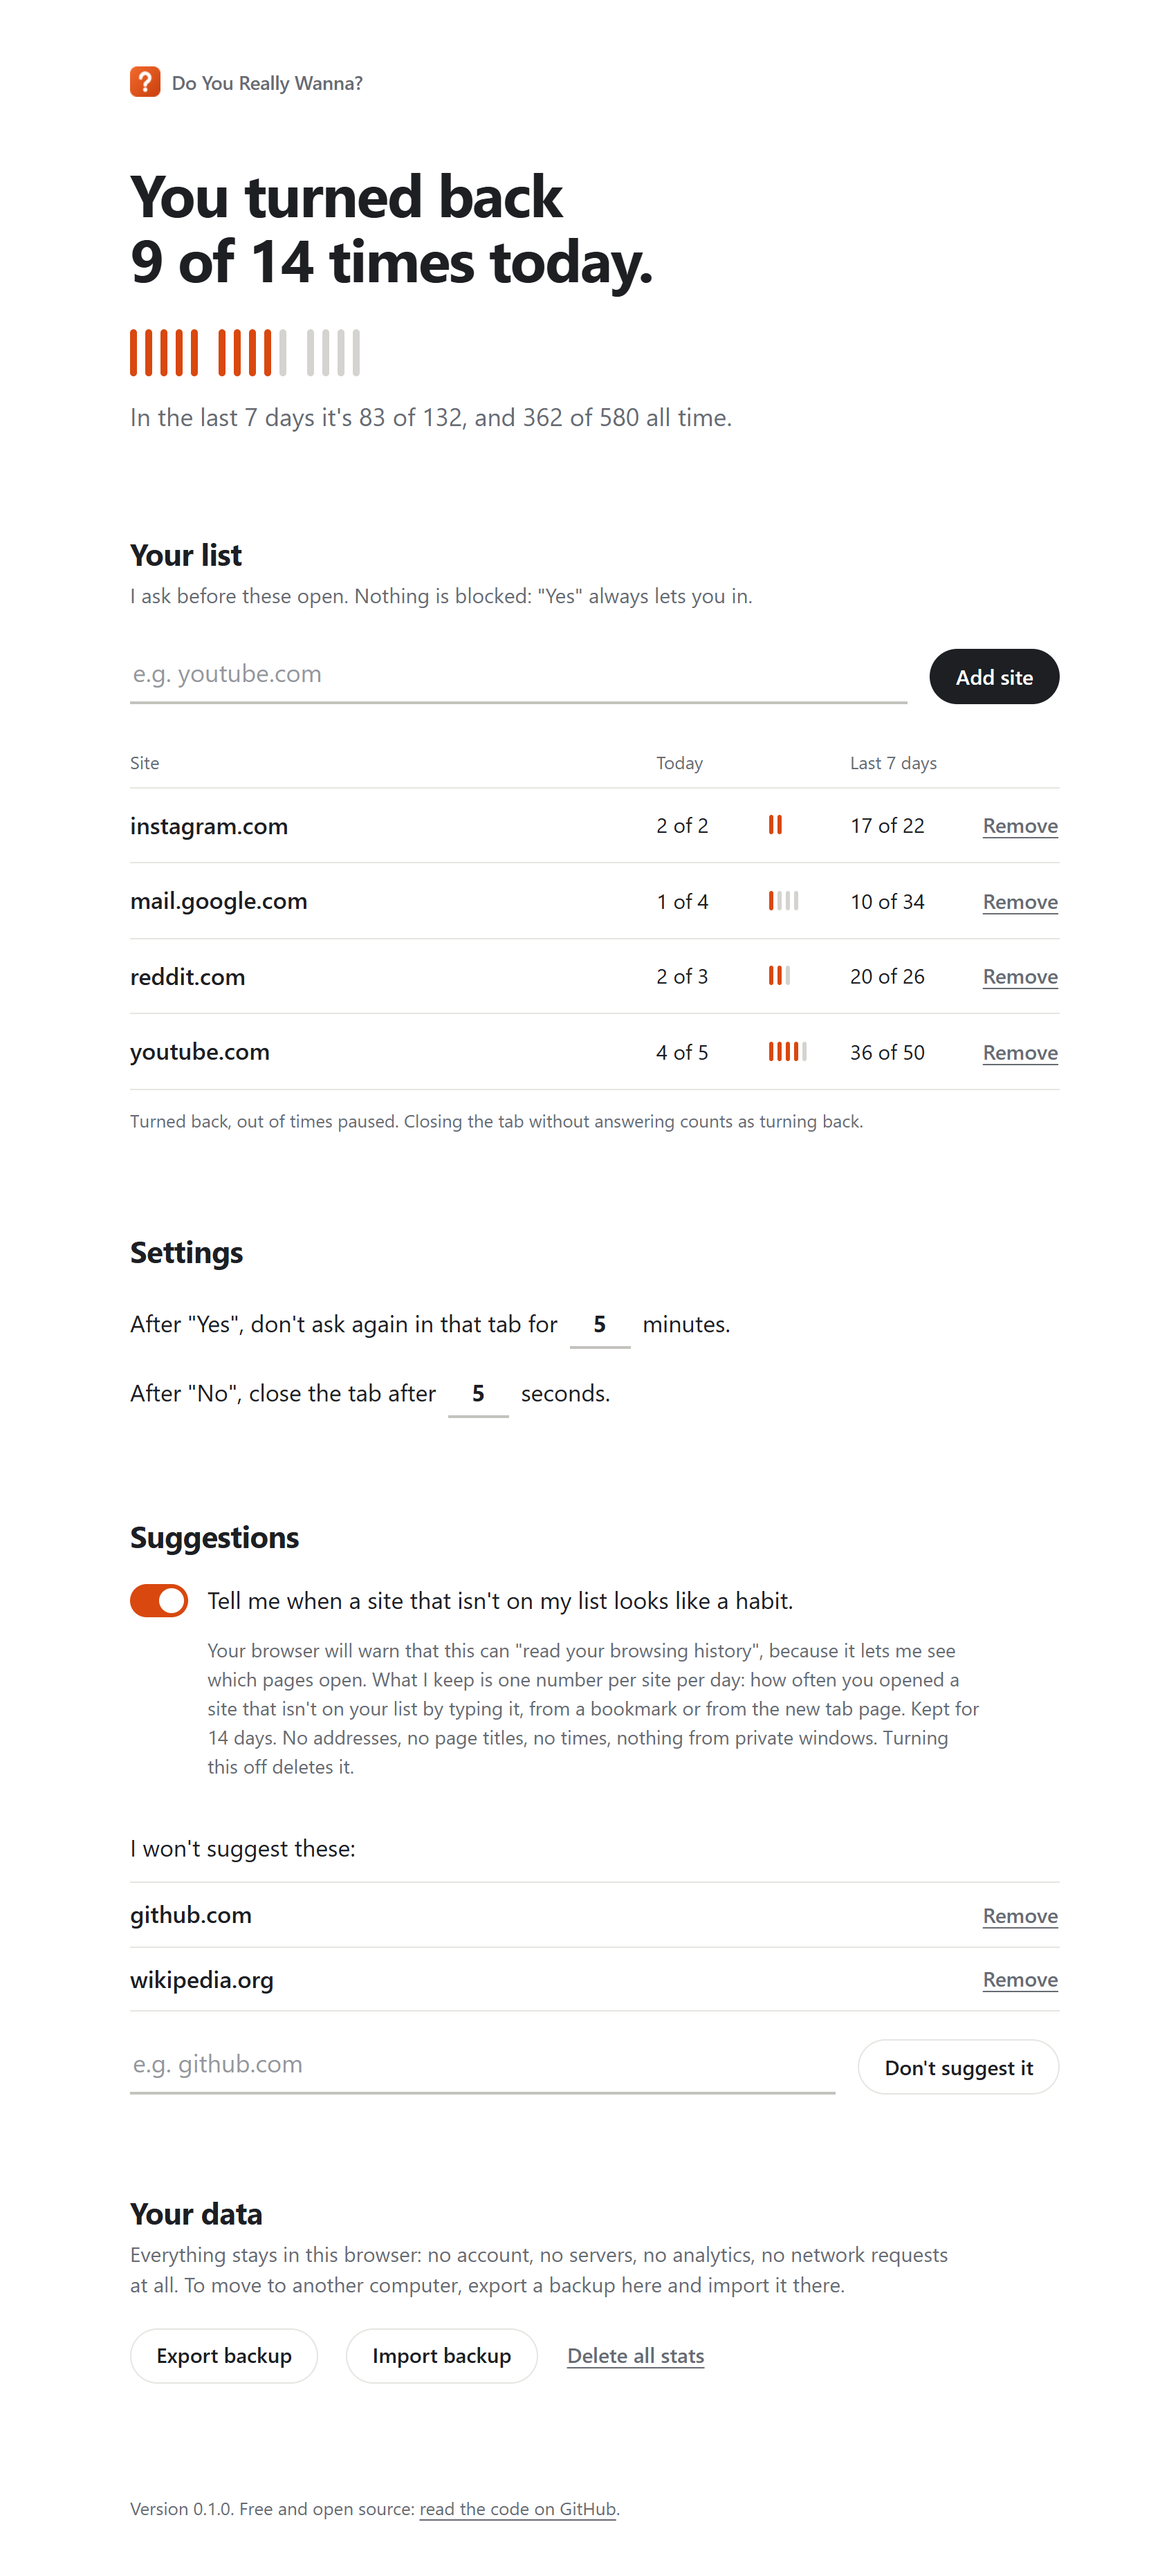
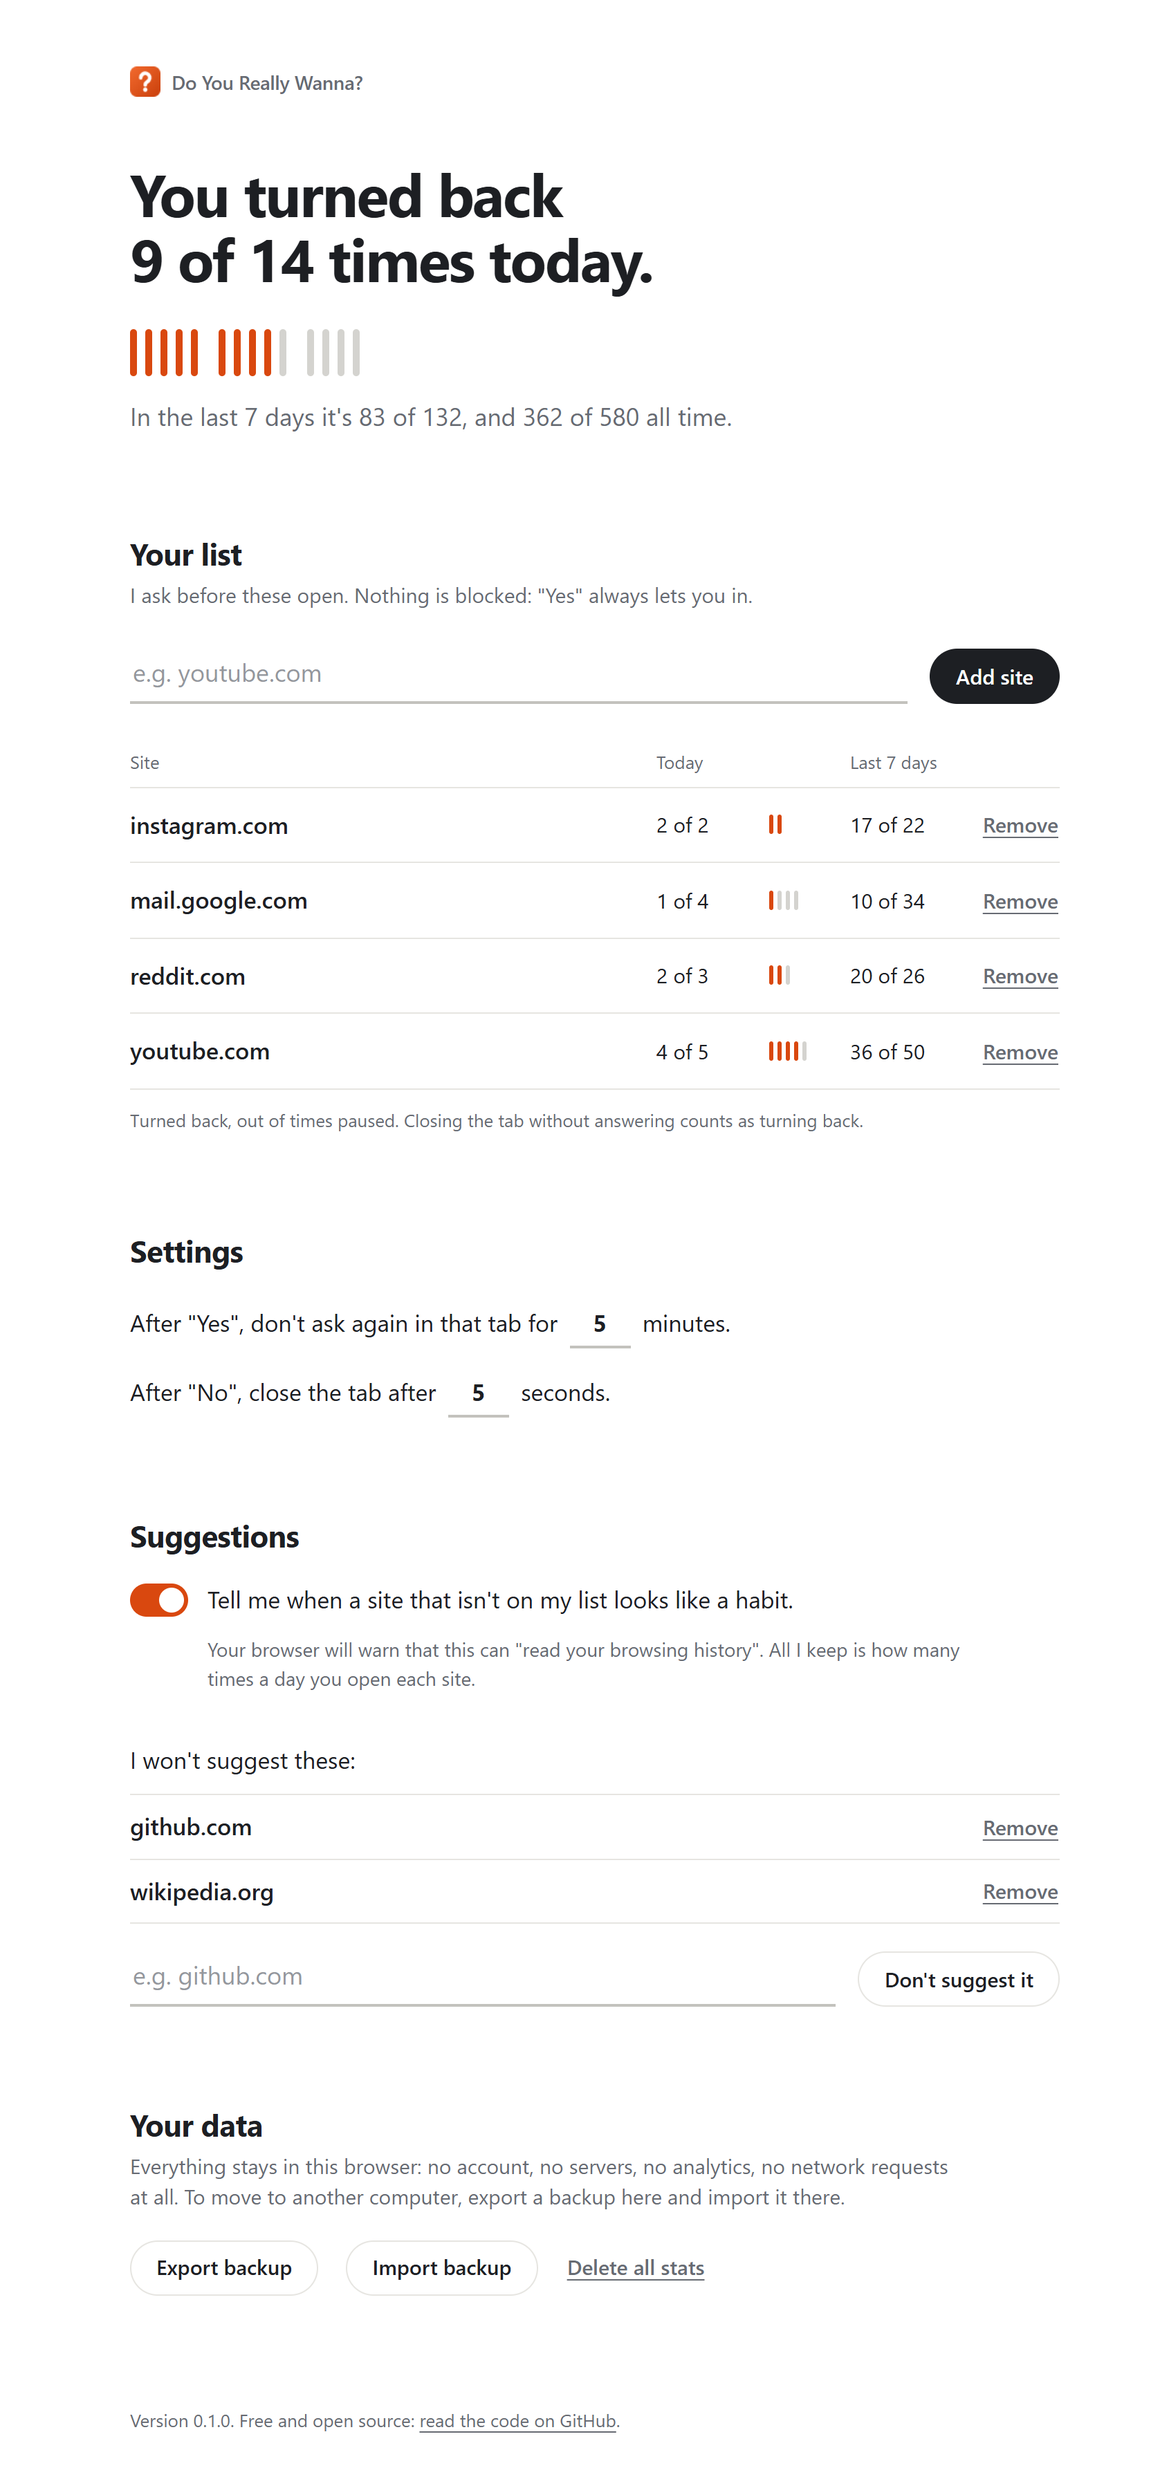
fix: shorter suggestions note, keep only 7 days of counts
The note next to the switch is down to two sentences: the browser's
"browsing history" warning, and that only a per-site daily count is kept.

Counts are kept for 7 days instead of 14: the threshold only ever reads
the last 7, so the extra week was data with no use. D-020 amended before
release. Edge hand-tests ticked in the roadmap.

diff --git a/extension/lib/copy.js b/extension/lib/copy.js
@@ -2,7 +2,7 @@
 // who scolds. Every prompt must be answerable with the two buttons
 // ("No, not now" / "Yes, open it").
 
-import { BUSY_DAYS, KEEP_DAYS, OPENS_PER_DAY, WINDOW_DAYS } from './suggest.js';
+import { BUSY_DAYS, OPENS_PER_DAY, WINDOW_DAYS } from './suggest.js';
 
 export const PROMPTS = [
   'Do you really wanna open {site} right now?',
@@ -38,13 +38,6 @@ export const SUGGESTION = Object.freeze({
   noAccess: "I can't pause {site} without access, so I didn't add it.",
   nothing: 'Nothing to suggest here.',
 });
-
-/** Next to the switch on "Your list & stats": the browser's warning, and what's actually kept. */
-export const SUGGESTIONS_NOTE =
-  'Your browser will warn that this can "read your browsing history", because it lets me see which pages open. ' +
-  'What I keep is one number per site per day: how often you opened a site that isn\'t on your list by typing it, ' +
-  `from a bookmark or from the new tab page. Kept for ${KEEP_DAYS} days. No addresses, no page titles, no times, ` +
-  'nothing from private windows. Turning this off deletes it.';
 
 export const SUGGESTIONS_DENIED = "Without that permission I can't notice anything, so suggestions stay off.";
 

diff --git a/tests/unit/suggest.test.js b/tests/unit/suggest.test.js
@@ -135,9 +135,9 @@ describe('recordOpen', () => {
     assert.equal(result.opens[today][site], 8);
     assert.equal(recordOpen({ opens: almost, suggestedOn: '2026-11-19' }, site, today).suggest, true);
   });
-  it(`keeps ${KEEP_DAYS} days`, () => {
-    assert.equal(KEEP_DAYS, 14);
-    const old = { '2026-11-07': { [site]: 1 }, '2026-11-06': { [site]: 1 } };
-    assert.deepEqual(Object.keys(recordOpen({ opens: old }, 'a.com', today).opens).sort(), ['2026-11-07', today]);
+  it('keeps only the days the threshold reads', () => {
+    assert.equal(KEEP_DAYS, WINDOW_DAYS);
+    const old = { '2026-11-14': { [site]: 1 }, '2026-11-13': { [site]: 1 } };
+    assert.deepEqual(Object.keys(recordOpen({ opens: old }, 'a.com', today).opens).sort(), ['2026-11-14', today]);
   });
 });

diff --git a/extension/options/options.js b/extension/options/options.js
@@ -11,7 +11,7 @@ import {
   requestSuggestPermission,
   syncRules,
 } from '../lib/browser.js';
-import { SUGGESTIONS_DENIED, SUGGESTIONS_NOTE, plural, summaryLines } from '../lib/copy.js';
+import { SUGGESTIONS_DENIED, plural, summaryLines } from '../lib/copy.js';
 import { dayKey, lastDays } from '../lib/dates.js';
 import { normalizeDomain } from '../lib/domains.js';
 import { LIMITS } from '../lib/settings.js';
@@ -205,8 +205,6 @@ function renderSuggestions(data, canSuggest) {
     }),
   );
 }
-
-$('suggest-note').textContent = SUGGESTIONS_NOTE;
 
 $('suggest-switch').addEventListener('change', async (event) => {
   const input = /** @type {HTMLInputElement} */ (event.target);

diff --git a/extension/options/options.html b/extension/options/options.html
@@ -73,7 +73,10 @@
           <input class="switch" id="suggest-switch" type="checkbox" role="switch" />
           <span>Tell me when a site that isn't on my list looks like a habit.</span>
         </label>
-        <p class="muted suggest-note" id="suggest-note"></p>
+        <p class="muted suggest-note">
+          Your browser will warn that this can "read your browsing history". All I keep is how many times a day you
+          open each site.
+        </p>
         <p class="error" id="suggest-error" role="alert" hidden></p>
         <p class="warn" id="suggest-permission" hidden>
           <span>Suggestions are on, but the browser hasn't allowed them yet.</span>

diff --git a/extension/lib/suggest.js b/extension/lib/suggest.js
@@ -18,8 +18,8 @@ export const OPENS_PER_DAY = 8;
 export const BUSY_DAYS = 3;
 export const WINDOW_DAYS = 7;
 
-/** Days of counts we keep. Older days are dropped. */
-export const KEEP_DAYS = 14;
+/** Days of counts we keep: only the ones the check above reads. */
+export const KEEP_DAYS = WINDOW_DAYS;
 
 /** @typedef {Record<string, Record<string, number>>} Opens */
 

diff --git a/docs/ROADMAP.md b/docs/ROADMAP.md
@@ -7,35 +7,33 @@ in [DECISIONS.md](DECISIONS.md); what actually changed lives in
 
 ## Next: release v0.2
 
-Smart suggestions are built (D-020 to D-023) and pass the browser test.
-What a test can't check, to try by hand in Edge (and Chrome) before
-tagging v0.2.0:
+Smart suggestions are built (D-020 to D-023), pass the browser test, and
+were hand-tested in Edge on 2026-11-20 (the ticked items below).
 
-- [ ] Turning suggestions on shows the browser's real prompt ("Read your
+- [x] Turning suggestions on shows the browser's real prompt ("Read your
       browsing history"); saying no leaves the switch off with the note.
-- [ ] Right after allowing, without restarting the browser, typing an
+- [x] Right after allowing, without restarting the browser, typing an
       unlisted site counts it (the listener is added on
-      `permissions.onAdded`). Check in the service worker's DevTools:
-      `chrome.storage.local.get('opens')`.
-- [ ] After the worker has gone to sleep (30 s idle), a typed open still
+      `permissions.onAdded`).
+- [x] After the worker has gone to sleep (30 s idle), a typed open still
       counts.
-- [ ] Turning suggestions off gives the permission back: the extension's
+- [x] Turning suggestions off gives the permission back: the extension's
       details page no longer lists "Read your browsing history".
-- [ ] What the real address bar reports: a typed address, an autocompleted
-      one, a history suggestion, "paste and go", a search (must not count).
-- [ ] A tile on Edge's new tab page and on Chrome's new tab page counts;
-      a bookmark from the favorites bar and from the menu counts.
+- [x] What the real address bar reports: a typed address, an autocompleted
+      one, a history suggestion, "paste and go" count; a search doesn't.
+- [x] A tile on Edge's new tab page and a favorite count.
 - [ ] Prerender: type a site you visit a lot slowly, so the browser
       prerenders it, then press Enter. Does it count? (DevTools turns
       prerendering off, so the test can't tell, D-020.)
-- [ ] The suggestion page on a real, heavy site: how visible is the flash
-      of the site, and does "Just let me in" bring it back instantly?
-- [ ] "Add it to my list" shows the real per-site prompt; saying no keeps
+- [x] The suggestion page on a real site: the flash of the site, and
+      "Just let me in" bringing it back.
+- [x] "Add it to my list" shows the real per-site prompt; saying no keeps
       you on the page with the message.
-- [ ] With the extension allowed in InPrivate, InPrivate opens aren't
+- [x] With the extension allowed in InPrivate, InPrivate opens aren't
       counted.
-- [ ] Importing a backup with suggestions on shows "Allow" on the settings
+- [x] Importing a backup with suggestions on shows "Allow" on the settings
       page, and "Allow" shows the prompt.
+- [ ] The same in Chrome, especially the new tab page tiles.
 - [ ] Version bump to 0.2.0 (manifest + package.json), CHANGELOG section,
       `v0.2.0` tag.
 
@@ -109,7 +107,7 @@ tagging v0.2.0:
 - [x] Unreleased (v0.2): opt-in smart suggestions (D-020 to D-023): a
       switch on "Your list & stats" that asks for `webNavigation`;
       per-day counts of impulse opens (typed, bookmark, new tab page) of
-      sites not on the list, kept 14 days; the suggestion page at 8+ opens
+      sites not on the list, kept 7 days; the suggestion page at 8+ opens
       on 3 of the last 7 days, at most once a day, with "Add it to my
       list" / "It's fine, don't ask again" / "Just let me in"; an editable
       "don't ask again" list; turning it off deletes the counts and gives

diff --git a/CHANGELOG.md b/CHANGELOG.md
@@ -18,7 +18,7 @@ under a new version heading and gets a `vX.Y.Z` git tag.
   history", and the page says so, along with what's actually kept). While
   it's on, the extension counts how often you open sites that aren't on
   your list by typing them, from a bookmark or from the new tab page: one
-  number per site per day, kept for 14 days. Links, reloads, back/forward,
+  number per site per day, kept for 7 days. Links, reloads, back/forward,
   searches and private windows are never counted.
 - **The suggestion page.** When a site is opened 8 or more times a day on
   3 of the last 7 days, the next such open shows "I noticed you open
@@ -46,6 +46,8 @@ under a new version heading and gets a `vX.Y.Z` git tag.
   the pause page and the suggestion page.
 - PRINCIPLES.md: "nothing runs unless…" and "no browsing history" now say
   what changes while suggestions are on (D-020).
+- The note next to the suggestions switch is two sentences: the browser's
+  "browsing history" warning, and that only a per-site daily count is kept.
 
 - **"Your list & stats" redesigned.** It now looks like the pause page: one
   column, no cards. At the top, today's numbers as one sentence ("You turned

diff --git a/docs/ARCHITECTURE.md b/docs/ARCHITECTURE.md
@@ -50,7 +50,7 @@ unchanged.
   quiet: { "github.com": { added: 1763635200000 } },        // "don't ask again": never suggested
 
   // Only while suggestions are on. Turning them off deletes both. Never in a backup.
-  opens: { "2026-11-20": { "youtube.com": 9 } },            // impulse opens per local day, 14 days
+  opens: { "2026-11-20": { "youtube.com": 9 } },            // impulse opens per local day, 7 days
   suggestedOn: "2026-11-20"                                // the day the last suggestion was shown
 }
 ```
@@ -117,7 +117,7 @@ Schema 2 added `quiet`, `settings.suggestions`, `opens` and `suggestedOn`
 3. Private-window tabs are skipped (`tabs.get`). Then, under the storage
    lock, `recordImpulseOpen` skips sites covered by the list or the
    "don't ask again" list, adds one to today's count, drops days older
-   than 14, and checks the threshold (D-021).
+   than 7, and checks the threshold (D-021).
 
 **A suggestion** (D-021, D-022)
 

diff --git a/docs/DECISIONS.md b/docs/DECISIONS.md
@@ -354,7 +354,9 @@ with a listed site".
   redirect (http → https, or to www.) is one commit with the
   `server_redirect` qualifier: it's the same open, counted for the site it
   lands on.
-- What's stored: `opens: { day: { host: count } }` for 14 days, plus
+- What's stored: `opens: { day: { host: count } }` for 7 days (the days the
+  threshold reads; first drafted as 14, cut before release because the
+  extra week was never read), plus
   `suggestedOn` (the day of the last suggestion, D-021). Hosts are
   normalized like the list (D-013): `www.` dropped, no Public Suffix List.
   Sites on the list, sites on the "don't ask again" list (both with their

diff --git a/docs/PRINCIPLES.md b/docs/PRINCIPLES.md
@@ -36,7 +36,7 @@ one of these, the idea loses. Changing a principle needs a decision in
 - **No browsing history.** Never store URLs, page titles or times of
   individual visits. Per-day counts per listed site, that's it. With
   suggestions on, also per-day counts of impulse opens per site, kept for
-  14 days, never in a backup, and deleted when suggestions are turned off.
+  7 days, never in a backup, and deleted when suggestions are turned off.
 - **No content scripts on every site.** No code of ours inside the pages
   people visit.
 - **No polling, intervals or timers in the background.**

diff --git a/README.md b/README.md
@@ -99,7 +99,7 @@ This is the point, not a footnote.
   No web addresses, no page titles, no times of day.
 - **Suggestions are opt-in.** Only if you turn them on does it see which
   pages open (your browser will warn about "browsing history"). Even then
-  it keeps one number per site per day, for 14 days, never in a backup, and
+  it keeps one number per site per day, for 7 days, never in a backup, and
   turning them off deletes it all.
 - **It only asks for access to the sites you add**, one at a time, when you
   add them, and gives the access back when you remove them. It never runs

diff --git a/PRIVACY.md b/PRIVACY.md
@@ -37,7 +37,7 @@ stats". Then, and only then:
   of the page, not its title, not the time. Links you click, reloads and
   searches aren't counted at all, and neither is anything in private
   (InPrivate / Incognito) windows.
-- The numbers are kept for 14 days, then deleted automatically. When a
+- The numbers are kept for 7 days, then deleted automatically. When a
   suggestion is shown, that site's numbers are deleted.
 - Sites on your list and on your "don't ask again" list are never counted.
 - These numbers are never put in a backup and never leave your computer.
